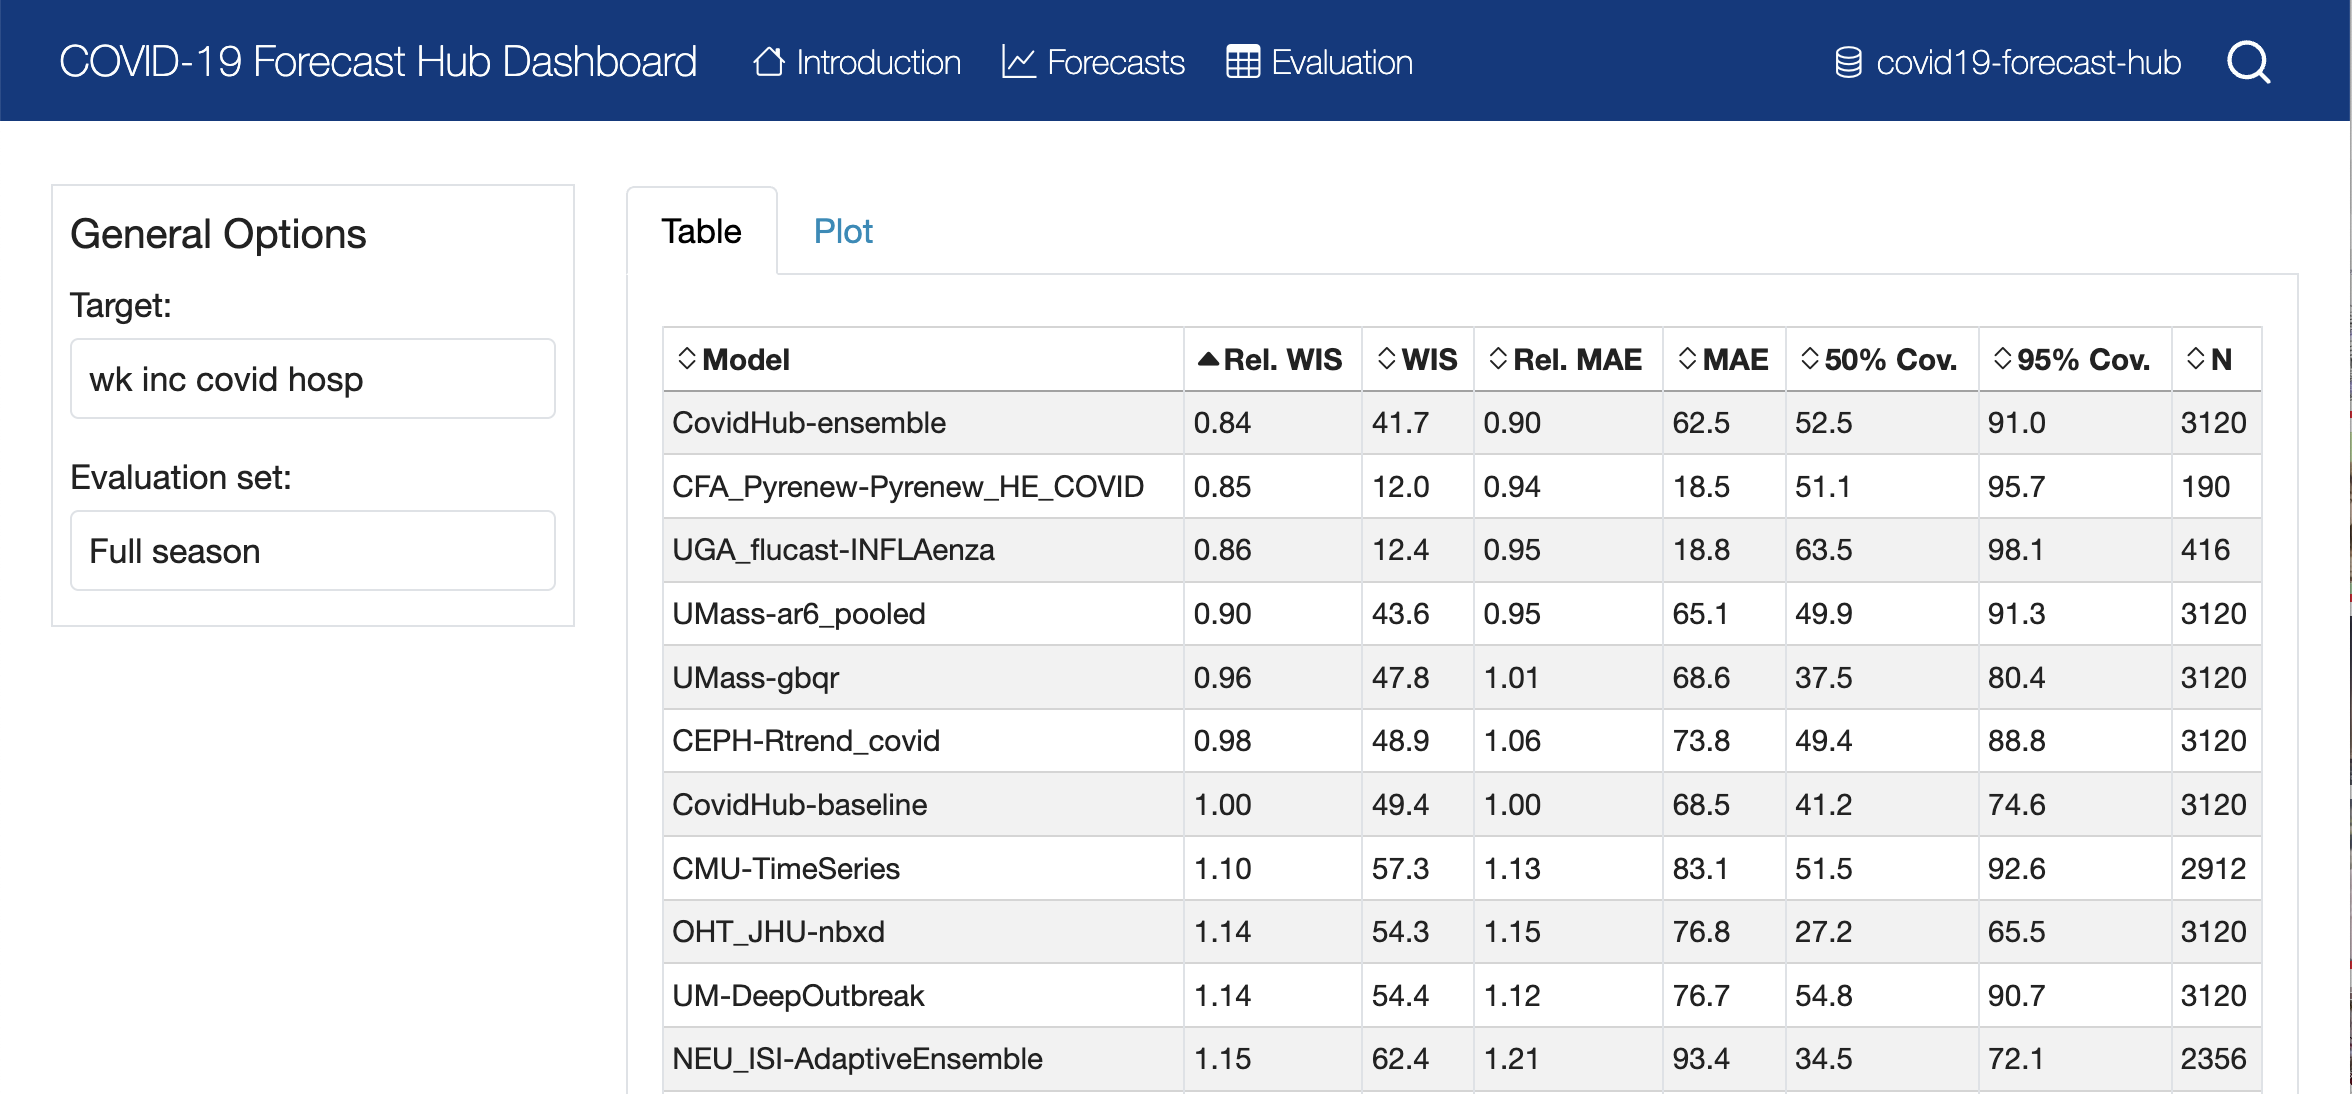
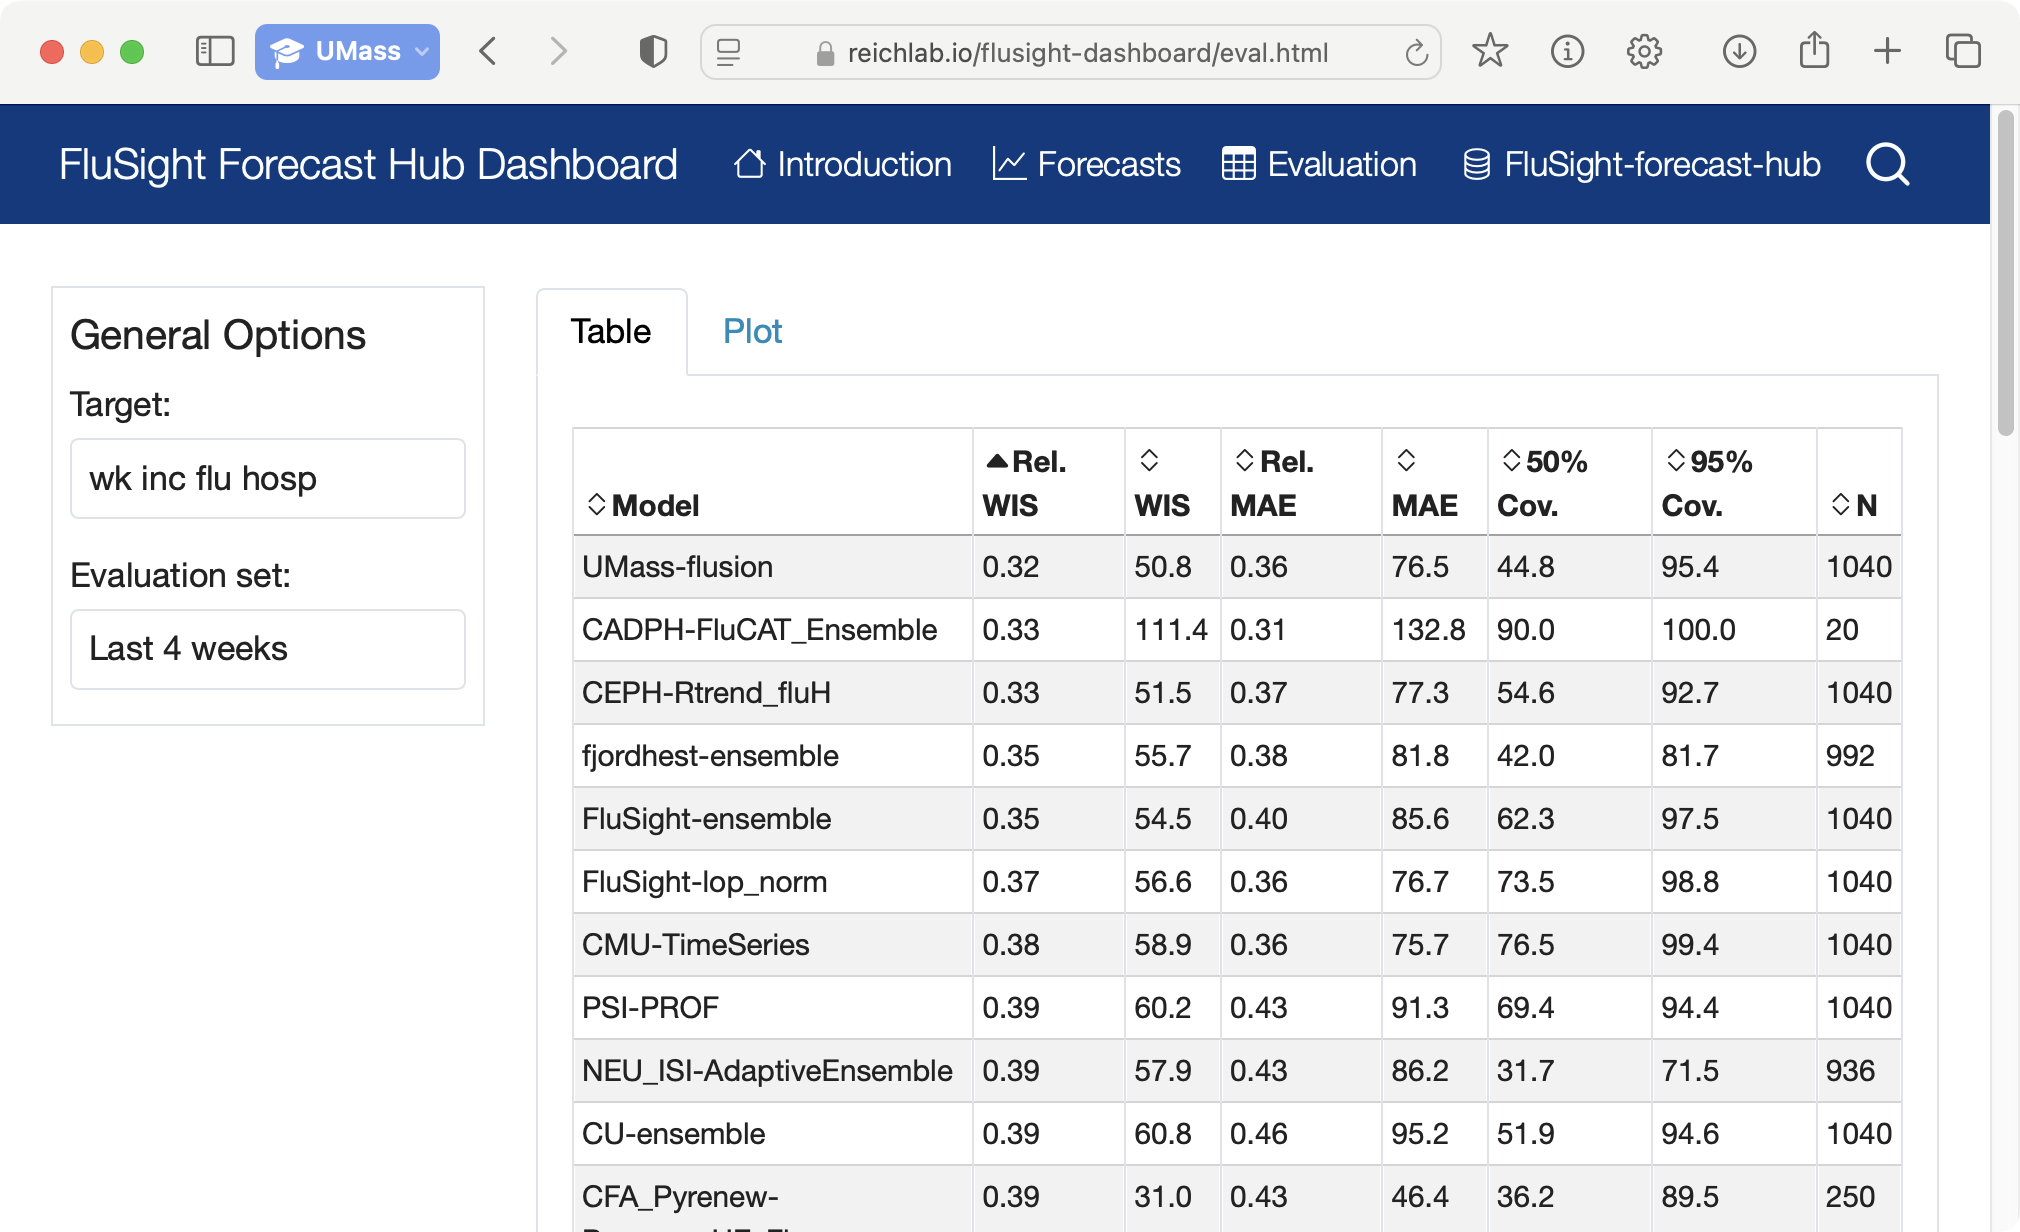
add screenshots of dashboard site
This will fix #277

Changed region(s): [[0.0, 0.0, 1.0, 1.0], [0.2183, 0.4662, 0.2495, 0.5905], [0.2183, 0.3419, 0.2495, 0.404]]

diff --git a/docs/source/conf.py b/docs/source/conf.py
@@ -22,6 +22,7 @@ extensions = [
     "sphinx.ext.intersphinx",
     "myst_parser",  # markdown (NOTE: this is NOT mystmd)
     "sphinx_design",  # tab panels and boxes
+    "sphinx_subfigure",  # multi-panel images
     "sphinxcontrib.mermaid",  # compose diagrams in code
 ]
 

diff --git a/docs/source/user-guide/dashboards.md b/docs/source/user-guide/dashboards.md
@@ -6,6 +6,19 @@ The hubverse provides a modular system for building a dashboard website for a mo
 2. An optional module for interactive visualizations of model outputs (predictions) and target data.
 3. An optional module for interactive exploration of scores for model predictions.
 
+````{subfigure} AB|CD
+:gap: 1%
+:class: margin-caption
+:class-area: bordered
+
+![screenshot of FluSight forecast hub dashboard home page](../images/dashboard-home.png)
+![screenshot of Forecasts page showing predictions for incident influenza hospitalizations in the United States as of 2025-03-01 with the line going down](../images/dashboard-forecast.png)
+![Screenshot of evaluations page with a table of evaluations for the last four weeks, sorted by Relative WIS score](../images/dashboard-eval-table.png)
+![Screenshot of evaluations page with a heatmap for Relative WIS score disaggregated by location](../images/dashboard-eval-heat.png)
+
+A dashboard provides interactive visualizations for forecasts and evaluations derived from hub data. This provides information modelers can use to evaluate and compare their submissions.
+````
+
 The website contents, including the web pages as well the data backing interactive visualizations and evaluations, are built by GitHub actions that can be set to run on a regular schedule or manually as needed. By default, the website is hosted on a GitHub pages site, though it could also be hosted on another static website hosting platform if desired.
 This guide assumes three things about the reader:
 1. you know how to edit and write files with [pandoc-flavored Markdown](https://pandoc.org/MANUAL#pandocs-markdown),
